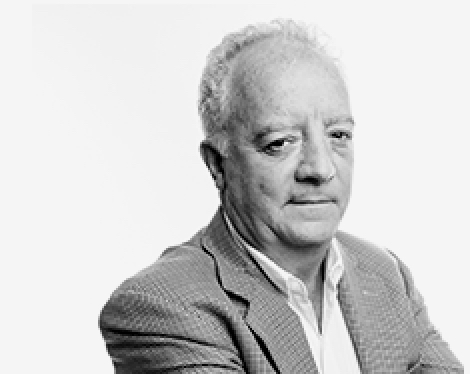
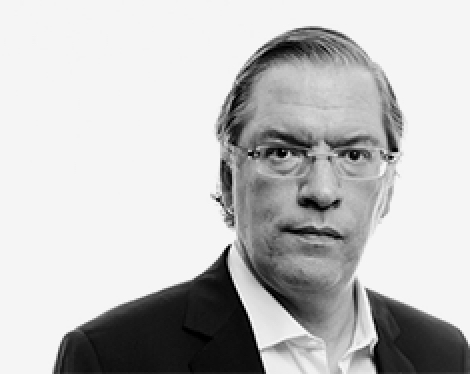
update

diff --git a/src/app/main/pages/highlight/highlight.scss b/src/app/main/pages/highlight/highlight.scss
@@ -215,7 +215,7 @@
         padding: 0 30px;
       }
       .box-wrapp-futura{
-          padding-right: 20px;
+          padding-left: 20px;
           min-height: 430px;
           position: relative;
           .box-1{
@@ -275,25 +275,31 @@
             }
             .content{
                 visibility: hidden;
+                font-family: 'Roboto';
+                font-size: 16px;
+                font-weight: 500;
+                font-style: normal;
+                font-stretch: normal;
+                line-height: 1.31;
+                letter-spacing: normal;
+                color: $white;
             }
 
           }
           .box-2{
             width: 250px;
             height: 270px;         
-            background-color: $brown-grey;
+            background-color: #d8d8d8;
             z-index: 99;
             position: absolute;
-            left: 400px;
+            left: 360px;
             overflow: hidden;
-            background-color: $brown-grey;
             transition: background-color 1s ease;
             &:hover{
                 width: 340px;
                 height: 360px;
                 background-color: #60bbb8;
                 z-index: 1000;
-                left: 285px;
 
                 cursor: pointer;
                 .text-background{
@@ -305,28 +311,37 @@
                 .content{
                     visibility: visible;
                 }
+                .title-box{
+                    color: #fff;
+                }
+                .sub-title-box{
+                    color: #fff;
+                }
             }
             .title-box{
-                padding-left: 30px;
+                padding-right: 30px;
                 padding-top: 10px;
                 z-index: 99;
                 text-align: right;
+                color: $brown-grey;
+
             }
             .sub-title-box{
-                padding-left: 30px;
+                padding-right: 30px;
                 z-index: 99;
                 text-align: right;
+                color: $brown-grey;
 
             }
             .text-background{
                 font-family: 'Roboto';
-                font-size: 360px;
+                font-size: 208px;
                 font-weight: bold;
                 font-style: normal;
                 font-stretch: normal;
                 line-height: normal;
-                letter-spacing: -8.3px;
-                color: #a1a1a1;
+                letter-spacing: -4.8px;
+                color: #e7e5e6;
                 z-index: -1;
                 white-space: nowrap;
                 top: 0;
@@ -340,9 +355,22 @@
                 margin-left: 30px;
                 margin-top: 20px;
                 margin-bottom: 20px;
+                text-align: right;
+                margin-left: 266px;
+
             }
             .content{
                 visibility: hidden;
+                text-align: right;
+                font-family: 'Roboto';
+                font-size: 16px;
+                font-weight: 500;
+                font-style: normal;
+                font-stretch: normal;
+                line-height: 1.31;
+                letter-spacing: normal;
+                text-align: right;
+                color: $white;
             }
 
           }
@@ -399,9 +427,18 @@
                 margin-left: 30px;
                 margin-top: 20px;
                 margin-bottom: 20px;
+                    margin-left: 266px;
             }
             .content{
                 visibility: hidden;
+                font-family: 'Roboto';
+                font-size: 16px;
+                font-weight: 500;
+                font-style: normal;
+                font-stretch: normal;
+                line-height: 1.31;
+                letter-spacing: normal;
+                color: $white;
             }
 
           }

diff --git a/src/app/main/pages/equipo/equipo.html b/src/app/main/pages/equipo/equipo.html
@@ -315,9 +315,9 @@
                               <div class="info-equipo">Lorem ipsum dolor sit amet, consetetur sadipscing elitr, sed diam nonumy eirmod tempor invidunt ut labore et dolore magna aliquyam erat, sed diam voluptua. At vero eos et accusam et justo duo dolores et ea rebum.</div>
                             </div>
                             <div class="col col-sm-4 p-0 two">
-                                <img src="./assets/blas-troncoso.jpg"
-                                srcset="./assets/blas-troncoso@2x.jpg 2x,
-                                        ./assets/blas-troncoso@3x.jpg 3x"
+                                <img src="./assets/javier-sanchez.jpg"
+                                srcset="./assets/javier-sanchez@2x.jpg 2x,
+                                        ./assets/javier-sanchez@3x.jpg 3x"
                                 class="img-fluid img-persona ">
                                 <div class="nombre">Javier Sánchez Rubio</div>
                               <div class="cargo">Gerente BIM Lab</div>
@@ -325,9 +325,9 @@
                               <div class="info-equipo">“El 2018 fue un año en el cual terminamos de sentar las bases de BIM dentro de la organización. Esto nos permitirá comenzar a trabajar en los primeros pilotos reales a ejecutarse durante el 2019. En paralelo, trabajamos en el posicionamiento interno de la transformación digital como un cambio necesario y junto a esto, fortalecimos nuestros vínculos de colaboración con las distintas áreas, para asegurar una mejor implementación del programa.”</div>
                             </div>
                             <div class="col col-sm-4 p-0 three">
-                                <img src="./assets/blas-troncoso.jpg"
-                                srcset="./assets/blas-troncoso@2x.jpg 2x,
-                                        ./assets/blas-troncoso@3x.jpg 3x"
+                                <img src="./assets/daniel-alamos.jpg"
+                                srcset="./assets/daniel-alamos@2x.jpg 2x,
+                                        ./assets/daniel-alamos@3x.jpg 3x"
                                 class="img-fluid img-persona ">
                                 <div class="nombre">Daniel Álamos Ovejeros</div>
                               <div class="cargo">Gerente de Arquitectura</div>

diff --git a/src/app/main/pages/modernizacion/modernizacion.controller.js b/src/app/main/pages/modernizacion/modernizacion.controller.js
@@ -23,7 +23,7 @@
 
 		function ModalController() {
 			var vm = this;
-			vm.src = 'video1.mp4';
+			vm.src = 'video2.mp4';
 		}
 	}
 })();
